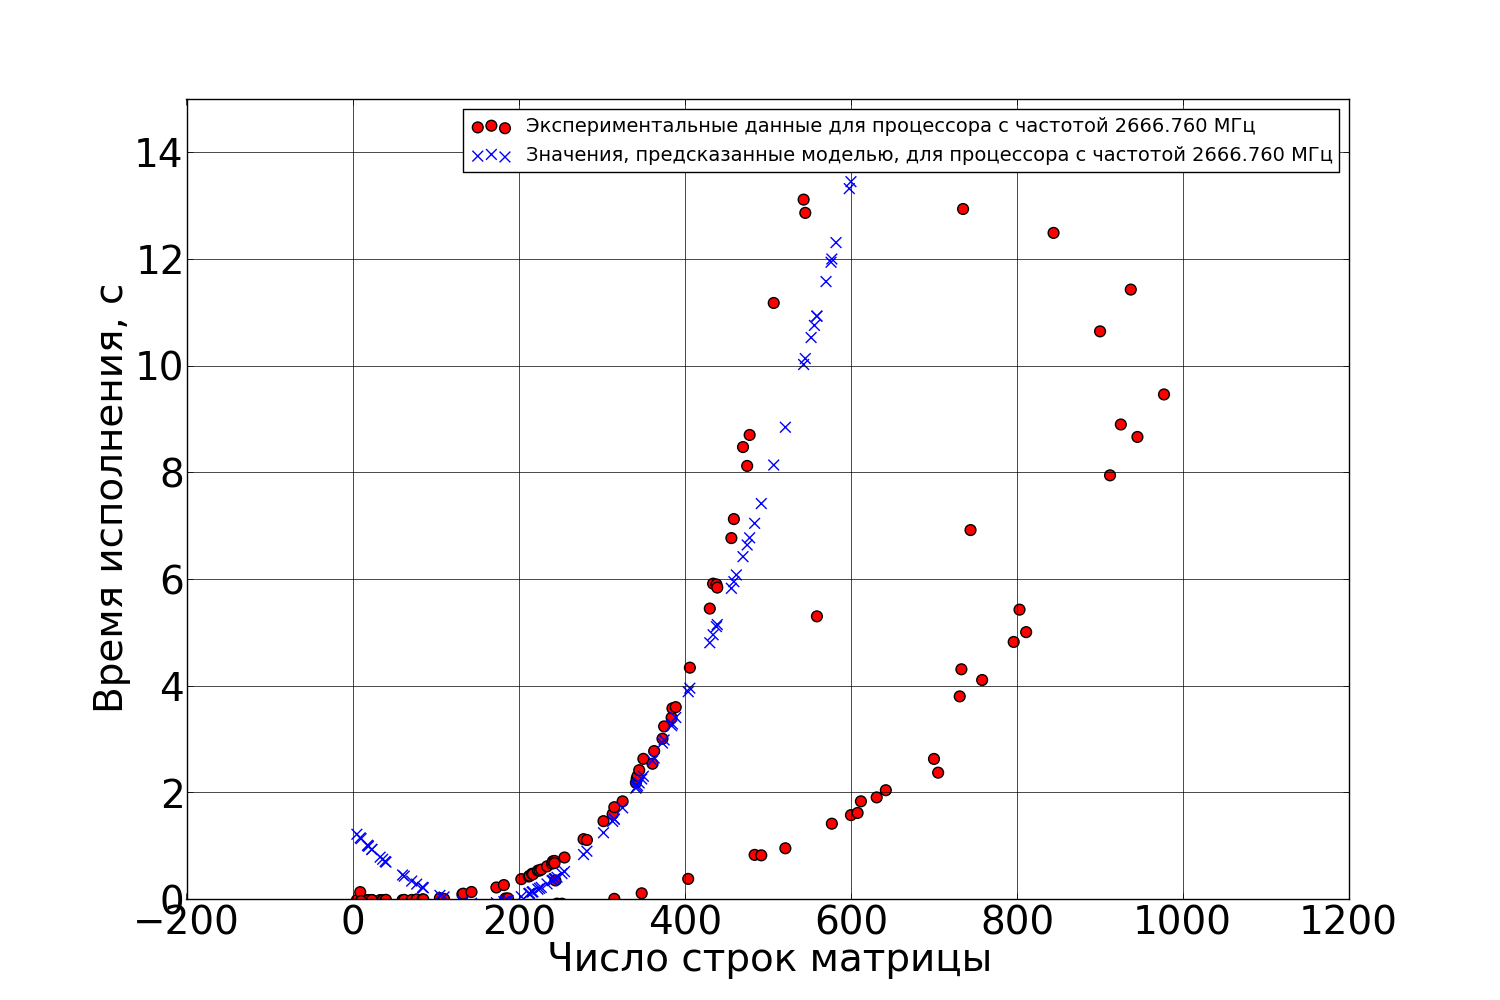
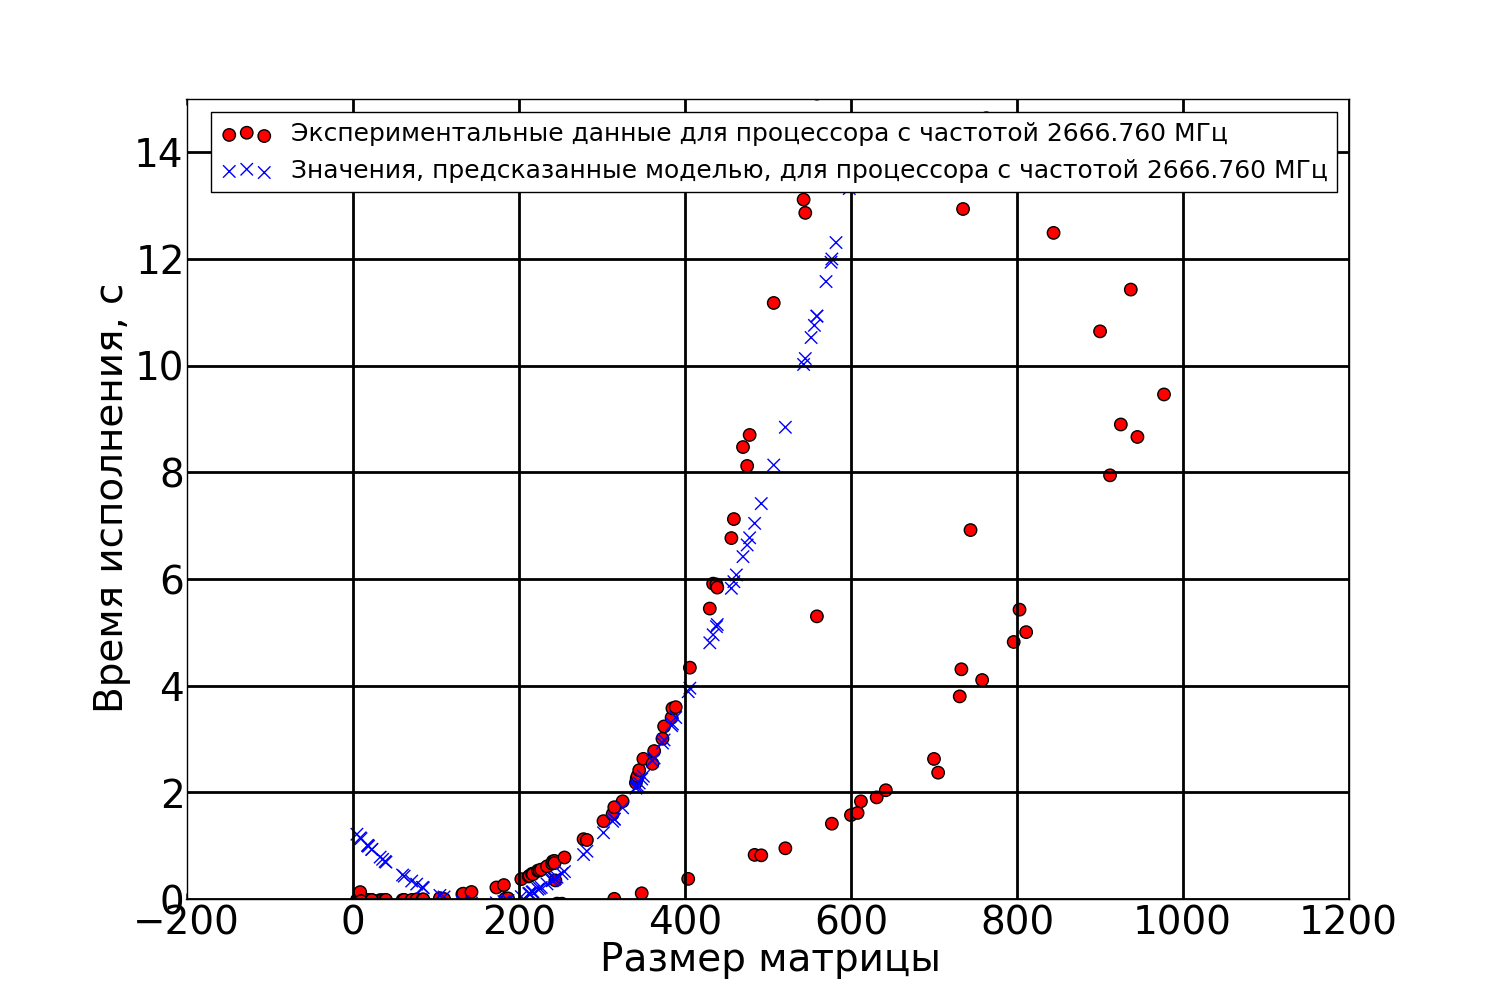
Improved style of poster graphs.

diff --git a/practice12/impl/src/system.py b/practice12/impl/src/system.py
@@ -276,7 +276,7 @@ def plot_predictions_distinct_2d(filename, predictor):
     colors = [('red', 'blue'), ('red', 'blue'), ('red', 'blue')]
 
     plt.rcParams.update({'font.size': 28})
-    plt.rc('legend',**{'fontsize':14})
+    plt.rc('legend',**{'fontsize':18})
 
     for freq, cmap, cs in zip(freqs, cmaps, colors):
         fig = plt.figure()
@@ -288,18 +288,18 @@ def plot_predictions_distinct_2d(filename, predictor):
         preds_freq = [float(d[predictor]) for d in dicts if filter_func(d)]
         ax3d.scatter(ws_freq, times_freq,
             label=u'Экспериментальные данные для процессора с частотой {0} МГц'.format(freq),
-            c=cs[0], marker='o', s=60,
+            c=cs[0], marker='o', s=80,
             cmap=cmap)
 
         ax3d.scatter(ws_freq, preds_freq,
             label=u'Значения, предсказанные моделью, для процессора с частотой {0} МГц'.format(freq),
-            c=cs[1], marker='x', s=60,
+            c=cs[1], marker='x', s=80,
             cmap=cmap)
 
         ax3d.set_ylim([0, 15])
-        plt.grid(b=True, which='major', color='k', linestyle='-')
+        plt.grid(b=True, which='major', color='k', linestyle='-', linewidth=2)
 
-        ax3d.xaxis.set_label_text(u'Число строк матрицы')
+        ax3d.xaxis.set_label_text(u'Размер матрицы')
         ax3d.yaxis.set_label_text(u'Время исполнения, с')
 
         plt.legend()
